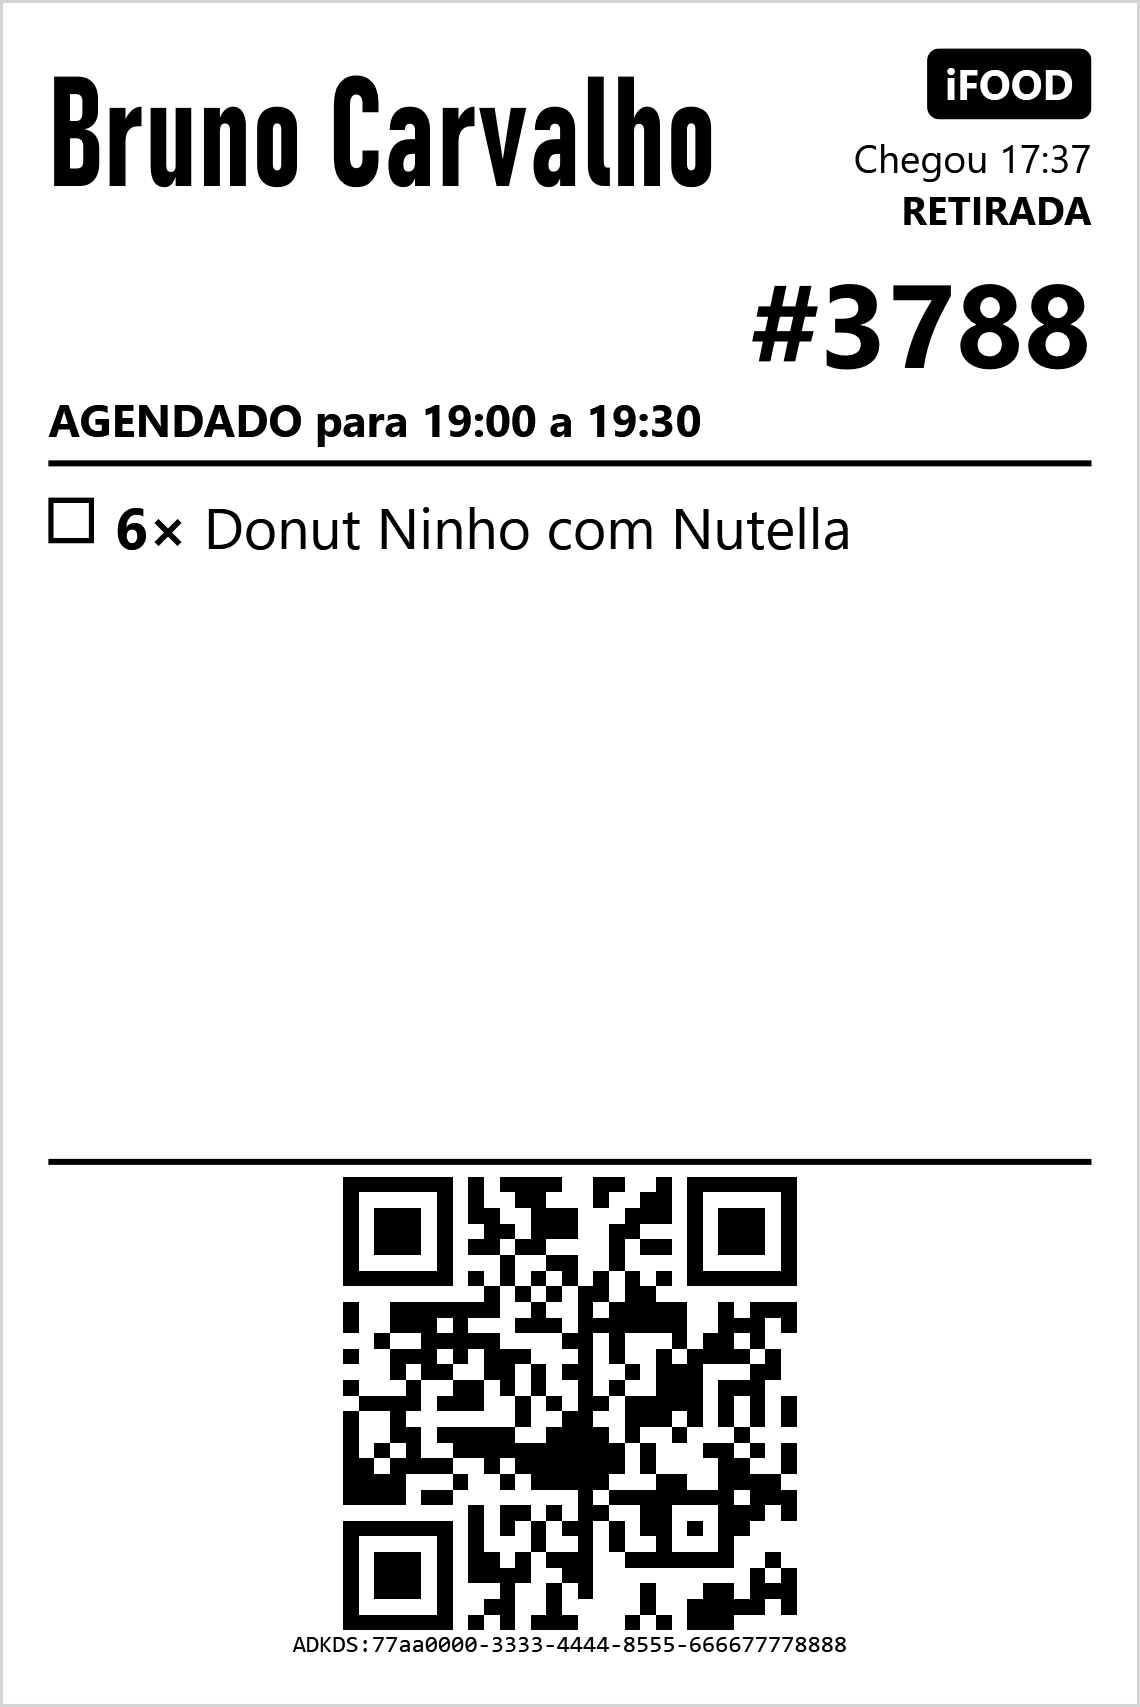
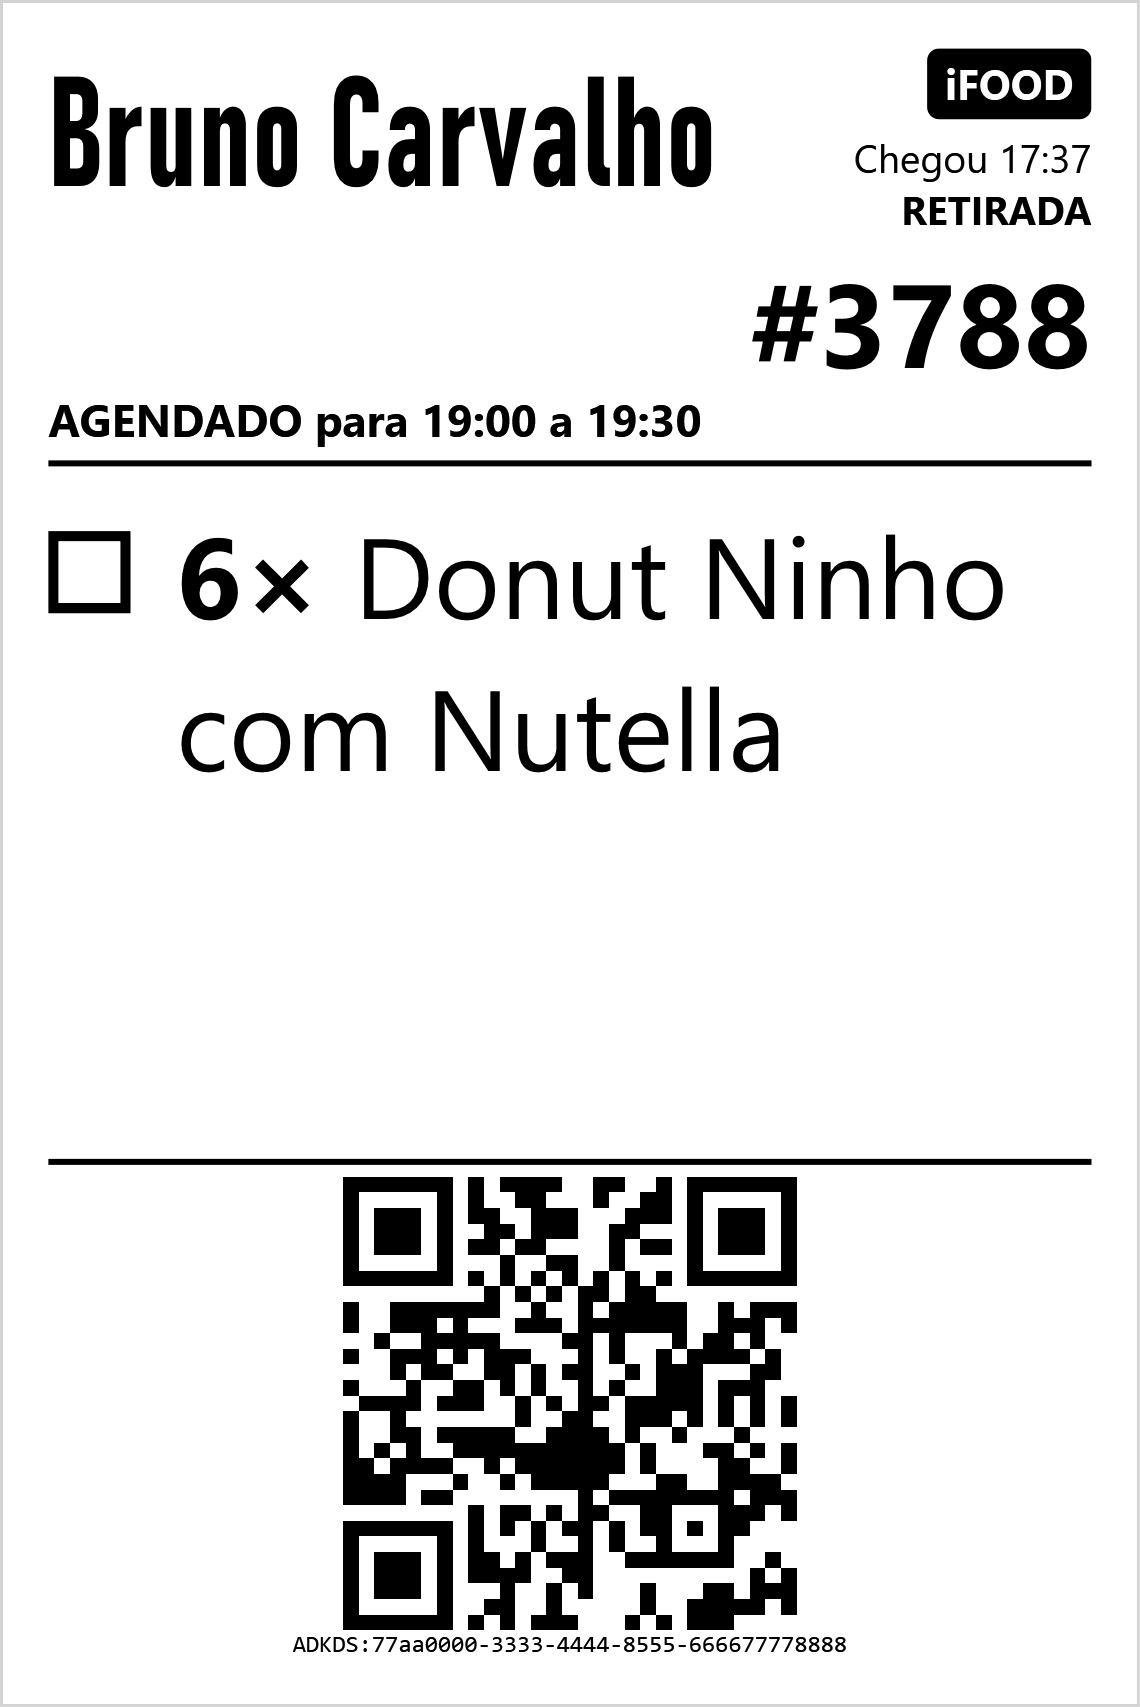
etiqueta 10x15: itens no maior tamanho que cabe e quadradinho proporcional
Ajuste do dono (06/10) sobre 0632b4b: sobrava papel entre os itens e o QR.
Os itens agora usam a MAIOR escala (busca binaria, teto 2x o base de 19 px,
piso 0,75) em que todos cabem entre a regua do cabecalho e a do QR. Abaixo
do piso o QR desce de 40 para 35 mm e so entao o miolo encolhe (nunca corta).
Quadradinho com lado = altura das maiusculas (0,72 em), traco proporcional
(>= 1,6 px), centrado na primeira linha; a quebra do item segue alinhada
sob o texto. Observacao em italico a 0,82 da fonte do item, recuada ate o
texto. Cabecalho e QR nao mudam com os itens.

Testes: 3 itens com letra maior que 8, quadradinho proporcional, QR >= 35.
Fotos refeitas. Bateria 5321/0.

diff --git a/ImpressaoEtiqueta.cs b/ImpressaoEtiqueta.cs
@@ -2,6 +2,7 @@ using System.Printing;
 using System.Windows;
 using System.Windows.Controls;
 using System.Windows.Media;
+using System.Windows.Threading;
 using System.Windows.Xps;
 using Pdv.Nucleo;
 
@@ -124,7 +125,7 @@ public static partial class Impressao
     /// <summary>A etiqueta (sempre desenhada em pé, 100 x 150) girada para a folha que o driver espera.</summary>
     private static FrameworkElement FolhaGirada(Etiqueta e, FolhaEtiqueta folha)
     {
-        var etiqueta = MontarEtiqueta(e);
+        var etiqueta = MontarEtiqueta(e, out _);
         if (folha.Giro == 0) return etiqueta;
         return new Border
         {
@@ -156,7 +157,7 @@ public static partial class Impressao
     /// melhor letra menor do que item cortado no fim da etiqueta. O QR e o número nunca
     /// encolhem.
     /// </summary>
-    private static FrameworkElement MontarEtiqueta(Etiqueta e)
+    private static FrameworkElement MontarEtiqueta(Etiqueta e, out TamanhoItens tamanho)
     {
         const double margem = 4 * MM;
         var util = (EtiquetaKds.LarguraMm - 8) * MM;
@@ -229,28 +230,124 @@ public static partial class Impressao
         Grid.SetRow(r1, 1);
         miolo.Children.Add(r1);
 
-        // ── itens ──
-        var lista = new StackPanel { Width = util };
-        foreach (var l in e.Linhas) lista.Children.Add(LinhaItem(l));
+        // ── itens (06/10, dono): o MAIOR tamanho que faça todos caberem entre a régua do
+        // cabeçalho e a do QR. Teto de 2x o tamanho base (pedido curto não vira cartaz) e piso
+        // legível; abaixo do piso o QR desce de 40 para 35 mm, e só então o miolo encolhe
+        // (Viewbox só para baixo) em vez de cortar item. Cabeçalho e QR não mudam de tamanho
+        // por causa dos itens.
+        double Altura(FrameworkElement el)
+        {
+            el.Measure(new Size(util, double.PositiveInfinity));
+            return el.DesiredSize.Height;
+        }
+        var fixo = Altura(topo) + Altura(r1);
+        var tam = EscolherTamanho(e, util,
+            qrMm => EtiquetaKds.AlturaMm * MM - 2 * margem - fixo - Altura(Rodape(e, qrMm)) - 2);
+        tamanho = tam;
+
         var itens = new Viewbox
         {
             Stretch = Stretch.Uniform, StretchDirection = StretchDirection.DownOnly,
             HorizontalAlignment = HorizontalAlignment.Left, VerticalAlignment = VerticalAlignment.Top,
-            Child = lista,
+            Child = ListaItens(e, tam.Escala, util),
         };
         Grid.SetRow(itens, 4);
         miolo.Children.Add(itens);
 
-        // ── rodapé: QR grande + o mesmo código em texto pequeno ──
-        var pe = new StackPanel { Margin = new Thickness(0, 4, 0, 0) };
-        pe.Children.Add(ReguaEtq());
-        if (Qr(e.Qr, EtiquetaKds.QrLadoMm * MM) is { } qr) pe.Children.Add(qr);
-        else pe.Children.Add(TextoEtq("QR indisponível: marque pronto pelo quadro", 12, negrito: true, centro: true, quebra: true));
-        pe.Children.Add(TextoEtq(e.Qr, 8, centro: true, quebra: true, fonte: Mono));
+        var pe = Rodape(e, tam.QrMm);
         Grid.SetRow(pe, 5);
         miolo.Children.Add(pe);
 
         return raiz;
+    }
+
+    /// <summary>Tamanho base da linha de item (escala 1).</summary>
+    private const double FonteItemBase = 19;
+    /// <summary>Teto: pedido curto sai no dobro do base, não maior.</summary>
+    public const double EscalaItensMax = 2.0;
+    /// <summary>Piso legível (≈ 14 px, 3,8 mm de letra). Abaixo disso o miolo encolhe pelo Viewbox.</summary>
+    public const double EscalaItensMin = 0.75;
+
+    /// <summary>O tamanho escolhido para os itens: escala, fonte, lado do quadradinho e o QR.</summary>
+    public readonly record struct TamanhoItens(double Escala, double Fonte, double LadoCaixa, double Traco, double QrMm);
+
+    /// <summary>
+    /// Mede a etiqueta de um ticket e devolve o tamanho que os itens ganharam (para a suíte:
+    /// pedido curto tem letra maior que pedido grande; o quadradinho acompanha a letra).
+    /// </summary>
+    public static Task<TamanhoItens> MedirItensAsync(Ticket ticket)
+    {
+        var tcs = new TaskCompletionSource<TamanhoItens>(TaskCreationOptions.RunContinuationsAsynchronously);
+        var th = new Thread(() =>
+        {
+            try { MontarEtiqueta(EtiquetaKds.Montar(ticket), out var t); tcs.TrySetResult(t); }
+            catch (Exception ex) { tcs.TrySetException(ex); }
+            finally { try { Dispatcher.CurrentDispatcher.InvokeShutdown(); } catch { } }
+        }) { IsBackground = true };
+        th.SetApartmentState(ApartmentState.STA);
+        th.Start();
+        return tcs.Task;
+    }
+
+    /// <summary>
+    /// Busca binária da maior escala em que a lista cabe na altura disponível. Não cabe nem
+    /// no piso com QR de 40 mm: tenta com 35 mm (o mínimo do dono). Não cabe nem assim: fica
+    /// no piso e o Viewbox encolhe o resto.
+    /// </summary>
+    private static TamanhoItens EscolherTamanho(Etiqueta e, double largura, Func<double, double> disponivel)
+    {
+        double Altura(double s)
+        {
+            var l = ListaItens(e, s, largura);
+            l.Measure(new Size(largura, double.PositiveInfinity));
+            return l.DesiredSize.Height;
+        }
+        TamanhoItens Com(double s, double qr)
+        {
+            var f = FonteItemBase * s;
+            return new TamanhoItens(s, f, LadoDaCaixa(f), TracoDaCaixa(f), qr);
+        }
+
+        var qrMm = EtiquetaKds.QrLadoMm;
+        var livre = disponivel(qrMm);
+        if (Altura(EscalaItensMin) > livre)
+        {
+            var livre35 = disponivel(EtiquetaKds.QrLadoMinMm);
+            qrMm = EtiquetaKds.QrLadoMinMm;
+            livre = livre35;
+            if (Altura(EscalaItensMin) > livre) return Com(EscalaItensMin, qrMm);
+        }
+        if (Altura(EscalaItensMax) <= livre) return Com(EscalaItensMax, qrMm);
+        double lo = EscalaItensMin, hi = EscalaItensMax;
+        for (var k = 0; k < 14; k++)
+        {
+            var meio = (lo + hi) / 2;
+            if (Altura(meio) <= livre) lo = meio; else hi = meio;
+        }
+        return Com(lo, qrMm);
+    }
+
+    /// <summary>Lado do quadradinho ≈ altura das maiúsculas da Segoe UI (0,7 em).</summary>
+    public static double LadoDaCaixa(double fonte) => fonte * 0.72;
+    /// <summary>Traço do quadradinho: grosso o bastante para a térmica (≥ 2 pontos a 203 dpi) e proporcional.</summary>
+    public static double TracoDaCaixa(double fonte) => Math.Max(1.6, fonte * 0.09);
+
+    private static StackPanel ListaItens(Etiqueta e, double escala, double largura)
+    {
+        var lista = new StackPanel { Width = largura };
+        foreach (var l in e.Linhas) lista.Children.Add(LinhaItem(l, escala));
+        return lista;
+    }
+
+    /// <summary>Rodapé: régua, QR do lado pedido e o código em texto pequeno embaixo.</summary>
+    private static FrameworkElement Rodape(Etiqueta e, double qrMm)
+    {
+        var pe = new StackPanel { Margin = new Thickness(0, 4, 0, 0) };
+        pe.Children.Add(ReguaEtq());
+        if (Qr(e.Qr, qrMm * MM) is { } qr) pe.Children.Add(qr);
+        else pe.Children.Add(TextoEtq("QR indisponível: marque pronto pelo quadro", 12, negrito: true, centro: true, quebra: true));
+        pe.Children.Add(TextoEtq(e.Qr, 8, centro: true, quebra: true, fonte: Mono));
+        return pe;
     }
 
     /// <summary>Altura reservada ao cabeçalho (nome grande + coluna da direita).</summary>
@@ -307,38 +404,43 @@ public static partial class Impressao
             MaxWidth = largura, HorizontalAlignment = lado, Margin = margem, Child = tb,
         };
 
-    /// <summary>Uma linha do miolo: quadradinho desenhado (retângulo, não caractere), quantidade em negrito e nome.</summary>
-    private static FrameworkElement LinhaItem(LinhaEtiqueta l)
+    /// <summary>
+    /// Uma linha do miolo na escala escolhida: quadradinho desenhado (retângulo, não
+    /// caractere) do tamanho das maiúsculas, centrado na PRIMEIRA linha do texto; a quebra
+    /// do nome continua alinhada sob o texto, não sob o quadradinho (DockPanel). Observação
+    /// em itálico um pouco menor, recuada até o texto do item.
+    /// </summary>
+    private static FrameworkElement LinhaItem(LinhaEtiqueta l, double escala)
     {
-        var (tam, recuo) = l.Tipo switch
-        {
-            // Subitem do combo é linha de conferência como o item (o pai não sai mais).
-            TipoLinhaEtiqueta.Item or TipoLinhaEtiqueta.Subitem => (19.0, 0.0),
-            _ => (15.0, 22.0),
-        };
+        var fonteItem = FonteItemBase * escala;
+        var lado = LadoDaCaixa(fonteItem);
+        var vao = fonteItem * 0.4;
+        var obs = l.Tipo == TipoLinhaEtiqueta.Observacao;
+        var fonte = obs ? fonteItem * 0.82 : fonteItem;
         var linha = new DockPanel
         {
             LastChildFill = true,
-            Margin = new Thickness(recuo, l.Tipo == TipoLinhaEtiqueta.Observacao ? 0 : 3, 0, 1),
+            Margin = new Thickness(obs ? lado + vao : 0, obs ? 0 : 3 * escala, 0, 1 * escala),
         };
         if (l.Caixa)
         {
-            var lado = tam * 0.8;
+            var alturaLinha = Sans.LineSpacing * fonte;
             var caixa = new Border
             {
                 Width = lado, Height = lado, BorderBrush = Brushes.Black,
-                BorderThickness = new Thickness(1.8), Background = Brushes.White,
-                Margin = new Thickness(0, tam * 0.18, 7, 0), VerticalAlignment = VerticalAlignment.Top,
+                BorderThickness = new Thickness(TracoDaCaixa(fonte)), Background = Brushes.White,
+                Margin = new Thickness(0, Math.Max(0, (alturaLinha - lado) / 2), vao, 0),
+                VerticalAlignment = VerticalAlignment.Top,
             };
             DockPanel.SetDock(caixa, Dock.Left);
             linha.Children.Add(caixa);
         }
         var tb = new TextBlock
         {
-            FontFamily = Sans, FontSize = tam, Foreground = Brushes.Black,
+            FontFamily = Sans, FontSize = fonte, Foreground = Brushes.Black,
             TextWrapping = TextWrapping.Wrap,
         };
-        if (l.Tipo == TipoLinhaEtiqueta.Observacao)
+        if (obs)
         {
             tb.FontStyle = FontStyles.Italic;
             tb.Inlines.Add(new System.Windows.Documents.Run("» " + l.Texto) { FontWeight = FontWeights.SemiBold });

diff --git a/Pdv.Testes/TestesEtiquetaKds.cs b/Pdv.Testes/TestesEtiquetaKds.cs
@@ -168,6 +168,28 @@ public static class TestesEtiquetaKds
             finally { try { File.Delete(png); File.Delete(png90); } catch { } }
         }
 
+        // ── 1c. O TAMANHO DOS ITENS (06/10, dono): o maior que cabe no miolo ──
+        {
+            Ticket ComItens(int n) => Exemplo() with
+            {
+                ItensJson = System.Text.Json.JsonSerializer.Serialize(Enumerable.Range(1, n)
+                    .Select(k => new TicketItem($"Donut Sabor Numero {k}", 1000, null)).ToArray()),
+            };
+            var t3 = Impressao.MedirItensAsync(ComItens(3)).GetAwaiter().GetResult();
+            var t8 = Impressao.MedirItensAsync(ComItens(8)).GetAwaiter().GetResult();
+            var t40 = Impressao.MedirItensAsync(ComItens(40)).GetAwaiter().GetResult();
+            checar(t3.Fonte > t8.Fonte, $"fonte dos itens MAIOR com 3 itens que com 8 ({t3.Fonte:0.0} > {t8.Fonte:0.0})");
+            checar(t3.Fonte > 19 * 1.3, $"pedido curto ganha letra bem maior que a antiga de 19 px ({t3.Fonte:0.0})");
+            checar(t3.Escala <= Impressao.EscalaItensMax + 1e-9 && t8.Escala >= Impressao.EscalaItensMin - 1e-9,
+                "a escala fica entre o piso e o teto");
+            checar(Math.Abs(t3.LadoCaixa / t3.Fonte - t8.LadoCaixa / t8.Fonte) < 1e-9 && t3.LadoCaixa > t8.LadoCaixa,
+                $"quadradinho proporcional à fonte ({t3.LadoCaixa:0.0} px com {t3.Fonte:0.0}; {t8.LadoCaixa:0.0} com {t8.Fonte:0.0})");
+            checar(t3.Traco > t8.Traco && t8.Traco >= 1.6, "traço do quadradinho engrossa com a fonte e nunca fica fino");
+            checar(t3.QrMm == EtiquetaKds.QrLadoMm && t40.QrMm == EtiquetaKds.QrLadoMinMm && t40.QrMm >= 35,
+                $"QR de 40 mm; só pedido enorme o leva a 35 mm, nunca menos ({t40.QrMm})");
+            checar(t40.Escala == Impressao.EscalaItensMin, "pedido enorme fica no piso legível (o resto encolhe, não corta)");
+        }
+
         // ── 2. O LEITOR USB (teclado) ──────────────────────────────────────
         {
             string? Rajada(LeitorKds l, string texto, int passoMs, bool campo = false, long t0 = 1000)

diff --git a/Pdv.Nucleo/EtiquetaKds.cs b/Pdv.Nucleo/EtiquetaKds.cs
@@ -92,6 +92,12 @@ public static class EtiquetaKds
     public const double QrLadoMm = 40;
 
     /// <summary>
+    /// Piso do QR: só quando o pedido não cabe nem com a letra no mínimo legível, o QR
+    /// cede de 40 para 35 mm (o mínimo que o dono pediu) antes de o miolo encolher.
+    /// </summary>
+    public const double QrLadoMinMm = 35;
+
+    /// <summary>
     /// Teto do nome do cliente, em caracteres, cortado entre palavras. Acima disso o nome
     /// em duas linhas ficaria do tamanho do item; é raro (nome + sobrenome cabe com folga).
     /// </summary>
